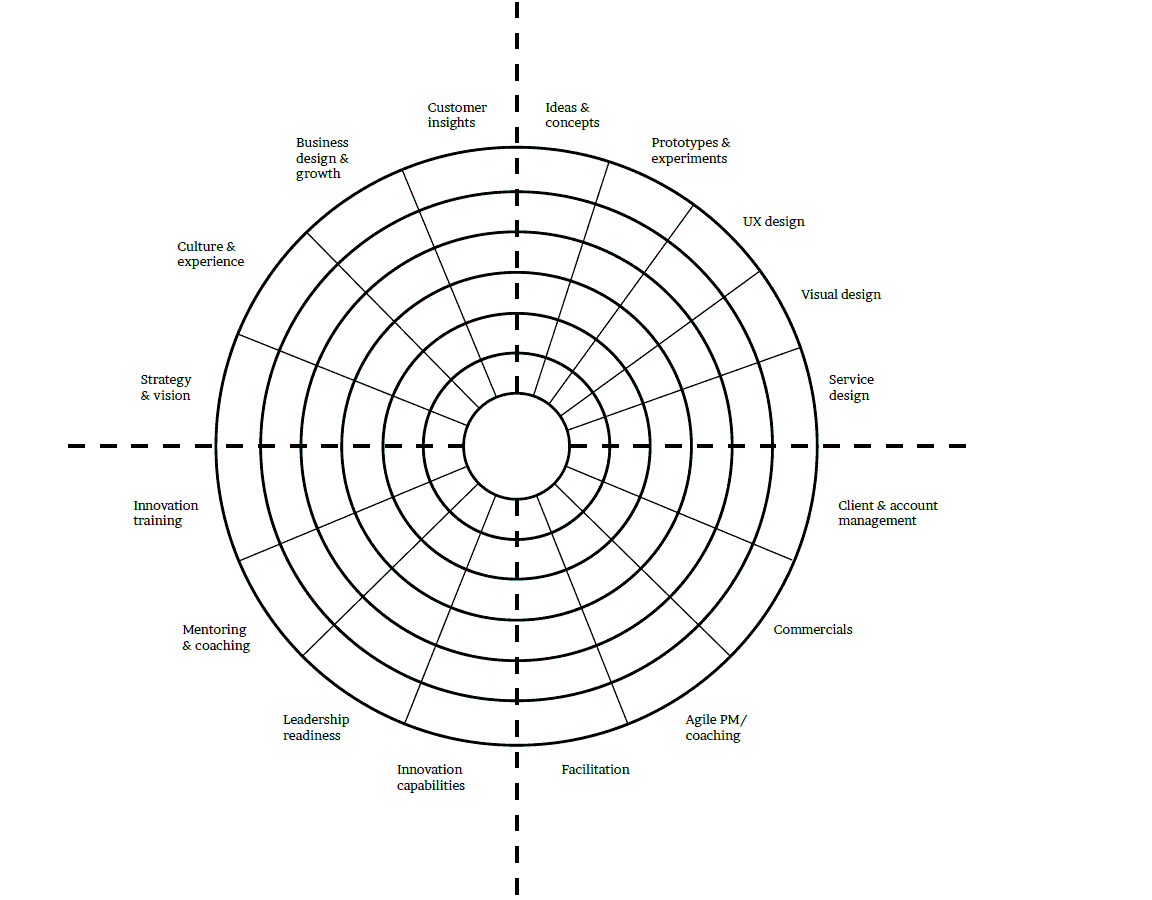
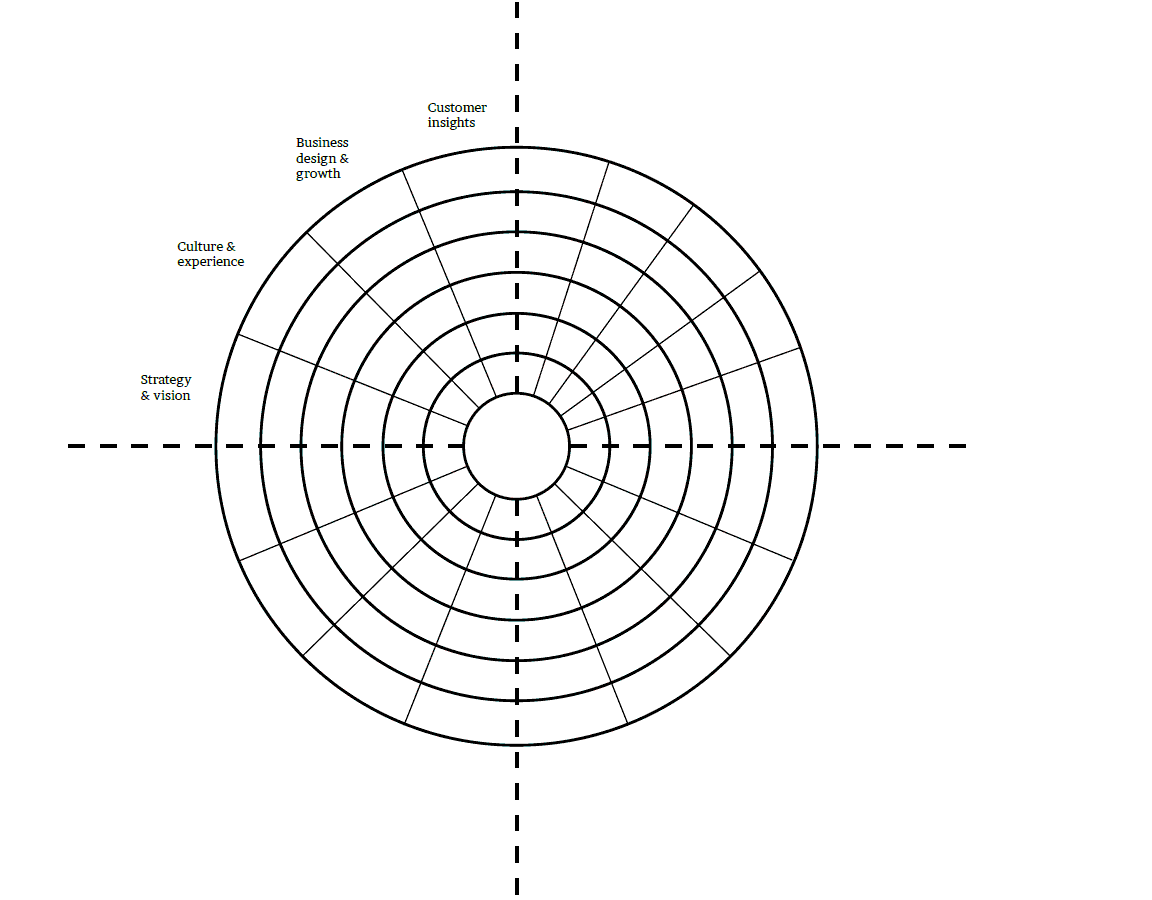
wip segment titles

diff --git a/static/index.html b/static/index.html
@@ -36,26 +36,115 @@
 
 <div style="width:1152px;">
 	<svg viewBox="0 0 1152 900" id="svg_compass">
-		<!-- title borders -->
-		<polygon class="svg_title" points="807,92,806,174,1010,184,1005,68" />
-		<text x="829" y="132" id="svg_title_1_1" class="svg_quad_title" font-size="24" class="svg_title_home"></text>
-		<text x="829" y="160" id="svg_title_1_2" class="svg_quad_title" font-size="24" class="svg_title_home"></text>
+		<!-- title border -->
+		<polygon class="svg_title green" points="807,92,806,174,1010,184,1005,68" stroke="yellow"/>
+		<!-- sector title -->
+		<text x="829" y="132" id="svg_title_1_1" class="svg_quad_title" font-size="24" ></text>
+		<text x="829" y="160" id="svg_title_1_2" class="svg_quad_title" font-size="24" ></text>
+
+		<!-- segment subtitles 
+		    <area target="" alt="" title="" href="" coords="540,94,610,132" shape="rect">
+			<area target="" alt="" title="" href="" coords="646,130,737,170" shape="rect">
+			<area target="" alt="" title="" href="" coords="735,207,811,234" shape="rect">
+			<area target="" alt="" title="" href="" coords="889,306,797,281" shape="rect">
+			<area target="" alt="" title="" href="" coords="823,370,881,408" shape="rect"> 
+		-->
+		<!-- 1 -->
+		<text x="545" y="110" id="svg_sector_1_1_1" font-size="14" font-family="times" ></text>
+		<text x="545" y="125" id="svg_sector_1_1_2" font-size="14" font-family="times" ></text>
 
 
-		<polygon class="svg_title" points="818,693,816,761,1020,771,1022,669" />
-		<text x="835" y="720" id="svg_title_2_1" class="svg_quad_title" font-size="24" class="svg_title_home"></text>
-		<text x="835" y="748" id="svg_title_2_2" class="svg_quad_title" font-size="24" class="svg_title_home"></text>
+		<!-- 2 -->
+		<text x="646" y="140" id="svg_sector_1_2_1" font-size="14" font-family="times" ></text>
+		<text x="646" y="155" id="svg_sector_1_2_2" font-size="14" font-family="times" ></text>
 
-		<polygon class="svg_title" points="45,663,211,689,207,770,45,783" />
-		<text x="60" y="720" id="svg_title_3_1" class="svg_quad_title" font-size="24" font-weight="bold" class="svg_title_home"></text>
-		<text x="60" y="748" id="svg_title_3_2" class="svg_quad_title" font-size="24" class="svg_title_home"></text>
+		<!-- 3 -->
+		<text x="742" y="225" id="svg_sector_1_3_1" font-size="14" font-family="times" ></text>
+
+		<!-- 4 -->
+		<text x="800" y="300" id="svg_sector_1_4_1" font-size="14" font-family="times" ></text>
+
+		<!-- 5 -->
+		<text x="828" y="383" id="svg_sector_1_5_1" font-size="14" font-family="times" ></text>
+		<text x="828" y="398" id="svg_sector_1_5_2" font-size="14" font-family="times" ></text>
+
+
+		<polygon class="svg_title blue" points="818,693,816,761,1020,771,1022,669" />
+		<text x="835" y="720" id="svg_title_2_1" class="svg_quad_title" font-size="24" ></text>
+		<text x="835" y="748" id="svg_title_2_2" class="svg_quad_title" font-size="24" ></text>
+
+		<!-- segment subtitles 
+			<area target="" alt="" title="" href="" coords="827,492,947,531" shape="rect">
+			<area target="" alt="" title="" href="" coords="768,618,865,643" shape="rect">
+			<area target="" alt="" title="" href="" coords="676,706,757,749" shape="rect">
+			<area target="" alt="" title="" href="" coords="553,752,646,783" shape="rect"> 
+		-->
+		<!-- 1 -->
+		<text x="837" y="510" id="svg_sector_2_1_1" font-size="14" font-family="times" ></text>
+		<text x="837" y="525" id="svg_sector_2_1_2" font-size="14" font-family="times" ></text>
+
+		<!-- 2 -->
+		<text x="773" y="632" id="svg_sector_2_2_1" font-size="14" font-family="times" ></text>
+
+		<!-- 3 -->
+		<text x="685" y="723" id="svg_sector_2_3_1" font-size="14" font-family="times" ></text>
+		<text x="685" y="738" id="svg_sector_2_3_2" font-size="14" font-family="times" ></text>
+
+		<!-- 4 -->
+		<text x="559" y="773" id="svg_sector_2_4_1" font-size="14" font-family="times" ></text>
+
+
+		<polygon class="svg_title red" points="45,663,211,689,207,770,45,783" />
+		<text x="60" y="720" id="svg_title_3_1" class="svg_quad_title" font-size="24" font-weight="bold" ></text>
+		<text x="60" y="748" id="svg_title_3_2" class="svg_quad_title" font-size="24" ></text>
+
+		<!-- 
+			<area target="" alt="" title="" href="" coords="388,753,475,801" shape="rect">
+			<area target="" alt="" title="" href="" coords="273,704,361,750" shape="rect">
+			<area target="" alt="" title="" href="" coords="172,616,260,661" shape="rect">
+			<area target="" alt="" title="" href="" coords="125,493,201,531" shape="rect">
+		-->
+		<!-- 1 -->
+		<text x="396" y="770" id="svg_sector_3_1_1" font-size="14" font-family="times" ></text>
+		<text x="396" y="785" id="svg_sector_3_1_2" font-size="14" font-family="times" ></text>
+
+		<!-- 2 -->
+		<text x="282" y="723" id="svg_sector_3_2_1" font-size="14" font-family="times" ></text>
+		<text x="282" y="738" id="svg_sector_3_2_2" font-size="14" font-family="times" ></text>
+
+		<!-- 3 -->
+		<text x="182" y="630" id="svg_sector_3_3_1" font-size="14" font-family="times" ></text>
+		<text x="182" y="645" id="svg_sector_3_3_2" font-size="14" font-family="times" ></text>
+
+		<!-- 4 -->
+		<text x="135" y="510" id="svg_sector_3_4_1" font-size="14" font-family="times" ></text>
+		<text x="135" y="525" id="svg_sector_3_4_2" font-size="14" font-family="times" ></text>
+
+
 		
-		<polygon class="svg_title" points="38,85,237,90,242,177,46,195" />
-		<text x="70" y="132" id="svg_title_4_1" class="svg_quad_title" font-size="24" class="svg_title_home"></text>
-		<text x="70" y="160" id="svg_title_4_2" class="svg_quad_title" font-size="24" class="svg_title_home"></text>
+		<polygon class="svg_title yellow" points="38,85,237,90,242,177,46,195" />
+		<text x="70" y="132" id="svg_title_4_1" class="svg_quad_title" font-size="24" ></text>
+		<text x="70" y="160" id="svg_title_4_2" class="svg_quad_title" font-size="24" ></text>
+
+		<!--     
+			<area target="" alt="" title="" href="" coords="130,363,200,409" shape="rect">
+			<area target="" alt="" title="" href="" coords="167,230,254,277" shape="rect">
+			<area target="" alt="" title="" href="" coords="289,128,358,186" shape="rect">
+			<area target="" alt="" title="" href="" coords="420,93,494,134" shape="rect"> 
+		-->
 
 	</svg>	
 </div>
+<!-- 
+IMAGEMAP DATA FOR SECTORS:
+ Image Map Generated by http://www.image-map.net/ 
+
+<img src="compass_trans.png" usemap="#image-map">
+
+<map name="image-map">
+
+</map>
+-->
 		
 
 </body>

diff --git a/static/js/engine2.js b/static/js/engine2.js
@@ -18,12 +18,38 @@ var engine = {
         { 'title': 'Advanced', 'description': 'You are adept at a broad range range of skills, knowing what\'s possible and available and appropriate for any given situation. You are able to coach and train others in those skills and approaches. You are able to write briefs for your team to execute. You are able to develop unique positions and approaches for Magnetic.\n\nClient role comparison (you should be able to comfortably guide and challenge) - head of...' },
         { 'title': 'Master', 'description': 'You are seen as the best in your craft on an industry-wide stage and are a thought-leader publicly. You are able to identify when new skills or methods need to be introduced and developed based on the task or customer need. You are comfortable sitting in C-Suite situations and explain, challenge and recruit in this craft.\n\nClient role comparison (you should be able to comfortably guide and challenge) - C-suite, Director' }
     ],
-    /** Jan 2026: Adds configurable main quadrant titles - requires blank compass image */
+    /** 
+     * Jan 2026: Adds configurable main quadrant titles - requires blank compass image 
+     *  - each element of the title_parts is pushed to a corresponding SVG text element.
+     *  - the target is worked out by mapping the indexex to eac appropriately structured
+     *    element ID.
+    */
     data_quadrant_titles:[
-        {'title_parts':['Product &','service design']},
-        {'title_parts':['Management &','leadership']},
-        {'title_parts':['Capability','building']},
-        {'title_parts':['Transforming','organizations']},
+        {'title_parts':['Product &','service design'],'sector_parts':[
+            ['Ideas &','concepts'],
+            ['Prototypes &','experiments'],
+            ['UX design',''],
+            ['Visual design',''],
+            ['Service','design'],
+        ]},
+        {'title_parts':['Management &','leadership'],'sector_parts':[
+            ['Client & account','management'],
+            ['Commercials',''],
+            ['Agile PM /','coaching'],
+            ['Facilitation',''],
+        ]},
+        {'title_parts':['Capability','building'],'sector_parts':[
+            ['Innovation','capabilities'],
+            ['Leadership','readiness'],
+            ['Mentoring','& coaching'],
+            ['Innovation','Training'],
+        ]},
+        {'title_parts':['Transforming','organizations'],'sector_parts':[
+            ['Strategy &','vision'],
+            ['Culture &','experience'],
+            ['Business','design &','growth'],
+            ['Customer','insights'],
+        ]},
     ],
     data_0: [
         { 'description': 'Includes Proposition Design, Product Design, Digital and Physical Experience Design', 'title': 'Product & service design' },
@@ -257,6 +283,7 @@ var engine = {
         console.log("Rendering statically displayed texts");
         const quadrant_title_refs = [];
         console.log(this.data_quadrant_titles);
+        // I'm using index 1 because of the way the element IDs are named.
         for(let x=1;x<=this.data_quadrant_titles.length;x++){
             // get the array of words for the current title elems:
             let current_words = this.data_quadrant_titles[x-1];
@@ -264,13 +291,36 @@ var engine = {
             // identify the text elements by ID:
             for(let y=1;y<=current_words.title_parts.length;y++){
                 let elem_id = `svg_title_${x}_${y}`;
-                console.log(current_words.title_parts[y-1]);
-                console.log(elem_id);
+                // console.log(current_words.title_parts[y-1]);
+                // console.log(elem_id);
                 let elem = document.getElementById(elem_id);
-                console.log(elem);
+                // console.log(elem);
                 let txt = document.createTextNode(current_words.title_parts[y-1]);
                 elem.appendChild(txt);
             }
+
+            // now get the segment titles:
+            console.log(current_words.sector_parts.length);
+            // now we do a double loop to get each segment, and the lines array for each:
+            for(let z=1;z<=current_words.sector_parts.length;z++){
+                console.log(current_words.sector_parts[z-1]);
+                for(let xx=1;xx<=current_words.sector_parts[z-1].length;xx++){
+                    console.log(current_words.sector_parts[z-1][xx-1]);
+
+                    let elem_id = `svg_sector_${x}_${z}_${xx}`;
+                    console.log(elem_id);
+                    try{
+                        let elem = document.getElementById(elem_id);
+                        let txt = document.createTextNode(current_words.sector_parts[z-1][xx-1]);
+                        console.log(elem);
+                        elem.appendChild(txt);
+                    }
+                    catch(ex){
+                        console.log(ex);
+                    }
+                }
+            }
+
             
         }
     },

diff --git a/templates/index.html b/templates/index.html
@@ -178,8 +178,14 @@
 		</svg>
 	</div>
 	
-	
-		<map name="testmap">
+	<!-- 
+	We superimpose an HTML imagemap on the image as well, so the relevant areas - as defined by the SVG above -
+	can be interactive elements (there was an issue with applying handlers directly to the SVG elems, but I can't
+	remember what that was...). This allows the colours to be applied.
+
+	The coord system is identical, so a `shape="rect"` area can be directly translated into an SVG
+	 -->
+	<map name="testmap">
 		
 		<!-- GOING CLOCKWISE FOR ALL, AND CENTER TO PERIMITER! -->
 		<area id="q-1" alt="" title="" href="#" coords="830,113,995,163" shape="rect" data-lookup="[0,-1,-1]">TEST

diff --git a/static/css/styles2.css b/static/css/styles2.css
@@ -151,14 +151,44 @@ body{
   stroke-width: 2px;
 }
 
+
+
 /* initially hide in markup, these elements */
 .svg_hide {
   fill: none;
 }
 
+.green {
+  stroke: lightgreen;
+}
+
+.blue{
+  stroke: lightblue;
+}
+
+.red{
+  stroke: lightpink
+}
+
+.yellow{
+  stroke: yellow;
+}
+
+
+text.green {
+  fill: lightgreen;
+}
+
+
+
 .svg_quad_title{
   font-weight: bold;
   font-size: 24px;
+  /* wrap:
+  see https://developer.mozilla.org/en-US/docs/Web/CSS/Reference/Properties/white-space 
+  */
+  white-space: normal;
+  max-width: 200px;
 }
 
 /* and identify any that have been previously flagged by the user */

diff --git a/README.md b/README.md
@@ -128,3 +128,8 @@ https://stackoverflow.com/questions/62625513/i-have-2-github-accounts-how-can-i-
  - do a http redirect from root path to /static
  - make API endpoints that map to the digits used for the data:
    - save/<user>/
+
+TO UPDATE!!
+-----------
+
+ - imagemap generator: https://www.image-map.net/
